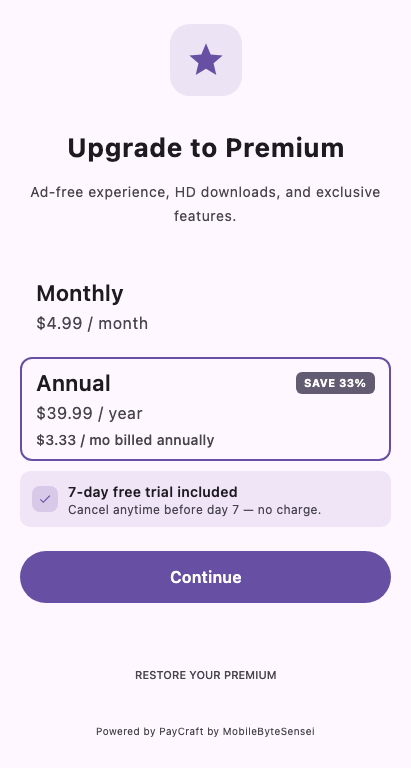
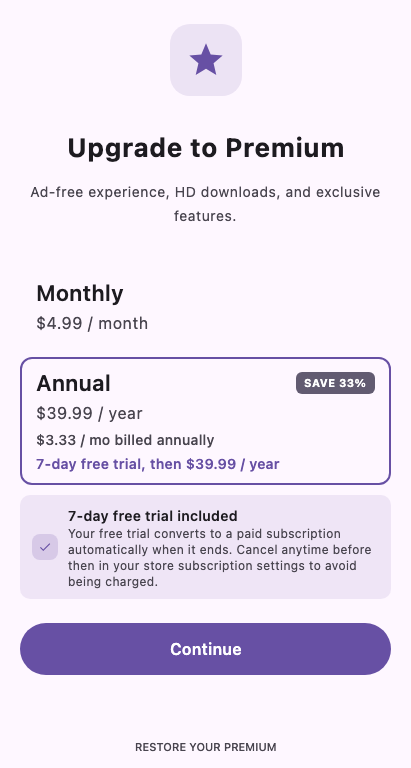
chore(source): update CHANGELOG.md cmp-paycraft/src/jvmTest/resources/screenshots/paywall_content.png cmp-paycraft/src/jvmTest/resources/screenshots/product_list.png

Changed region(s): [[0.0292, 0.5938, 0.9635, 0.9062], [0.2336, 0.9375, 0.7591, 1.0], [0.9051, 0.5938, 0.9635, 0.625]]

diff --git a/sample-app/src/androidMain/kotlin/com/mobilebytelabs/paycraft/sample/SampleApplication.kt b/sample-app/src/androidMain/kotlin/com/mobilebytelabs/paycraft/sample/SampleApplication.kt
@@ -113,6 +113,19 @@ class SampleApplication : Application() {
                 displayOrder = 2,
                 playProductId = "paycraft_yearly",
             ),
+            // 14-day free trial attached to the monthly plan — showcases the
+            // Play Subscriptions-policy trial disclosure (post-trial price + cadence
+            // on the offer, auto-renew + how-to-cancel copy). Mirrors the reels-downloader
+            // offer that must clearly state trial terms.
+            ProductDto(
+                id = "monthly_trial",
+                sku = "monthly_trial",
+                type = "trial",
+                displayName = "14-day Free Trial",
+                trialDurationDays = 14,
+                attachesToProductId = "monthly",
+                displayOrder = 99,
+            ),
         ),
         providers = listOf(
             ProviderDto(
@@ -125,8 +138,9 @@ class SampleApplication : Application() {
             ),
         ),
         paywall = PaywallDto(
-            template = "minimal",
+            template = "branded-stack",
             branding = "attribution",
+            popularPlanSku = "quarterly",
             supportEmail = "support@yourdomain.com",
         ),
     )

diff --git a/CHANGELOG.md b/CHANGELOG.md
@@ -6,6 +6,7 @@ Adds a unified, cross-platform buyer-country signal and platform-aware provider 
 
 ### Added
 
+- **Compliant, dashboard-driven free-trial disclosure** — the paywall now states the full trial terms Google Play's Subscriptions policy requires: each trial-eligible plan card discloses the **post-trial price + cadence** on the offer itself (`"14-day free trial, then ₹299 / month"`), and the disclosure block states the trial **auto-renews** into a paid subscription and **how to cancel** before being charged. All three strings are tenant-configurable from the dashboard (`PaywallDto.trial_terms_template` / `trial_disclosure_title` / `trial_disclosure_body`, migration `077`) with localized SDK string-resource fallbacks, so copy changes need no host rebuild. Resolves the Reels Downloader (`com.sensei.social`) rejection where the paywall advertised a trial without stating its terms. Roborazzi golden `product_list.png` re-recorded as render evidence. Sample app updated to `branded-stack` + a 14-day trial to showcase the disclosure.
 - **Unified country detection** — `CountryDetector` (`cmp-paycraft/.../CountryDetector.kt`) folds a new signal order `store storefront → server IP-geo → device/SIM → config locale → DEFAULT`, each tagged with a `CountryProvenance` (`AUTHORITATIVE_STORE` / `SERVER_IP_GEO` / `DEVICE_SIM` / `LOCALE_FALLBACK`). The `/config` edge function reads the hosting edge IP-country header (`x-vercel-ip-country` / `cf-ipcountry` / `cloudfront-viewer-country`) and returns `geo_country` + `geo_source`, so web/desktop (no store storefront) get an authoritative country instead of only the device locale. `CurrencyResolver.resolveCountry` gained a backward-compatible `serverGeo` param; the SDK re-resolves post-fetch and sends `X-PayCraft-Platform`.
 - **Per-platform provider routing** — migration `075` adds a `platform` dimension (`ios/android/desktop/web/any`) to `tenant_routing_rules` + the upsert RPC. `checkout-router.ts` matches on platform (`platformMatches`); `/config` orders `providers[]` by the tenant's platform routing preference (`orderProvidersByPlatform`) so the SDK's `primaryProvider()` is the intended provider per platform (Stripe on desktop, Razorpay on Android, …) instead of an arbitrary `firstOrNull()`. Dashboard smart-routing editor gains a Platform column. `resolveCheckoutLane` (store-compliance) is unchanged and remains the outer guard.
 
